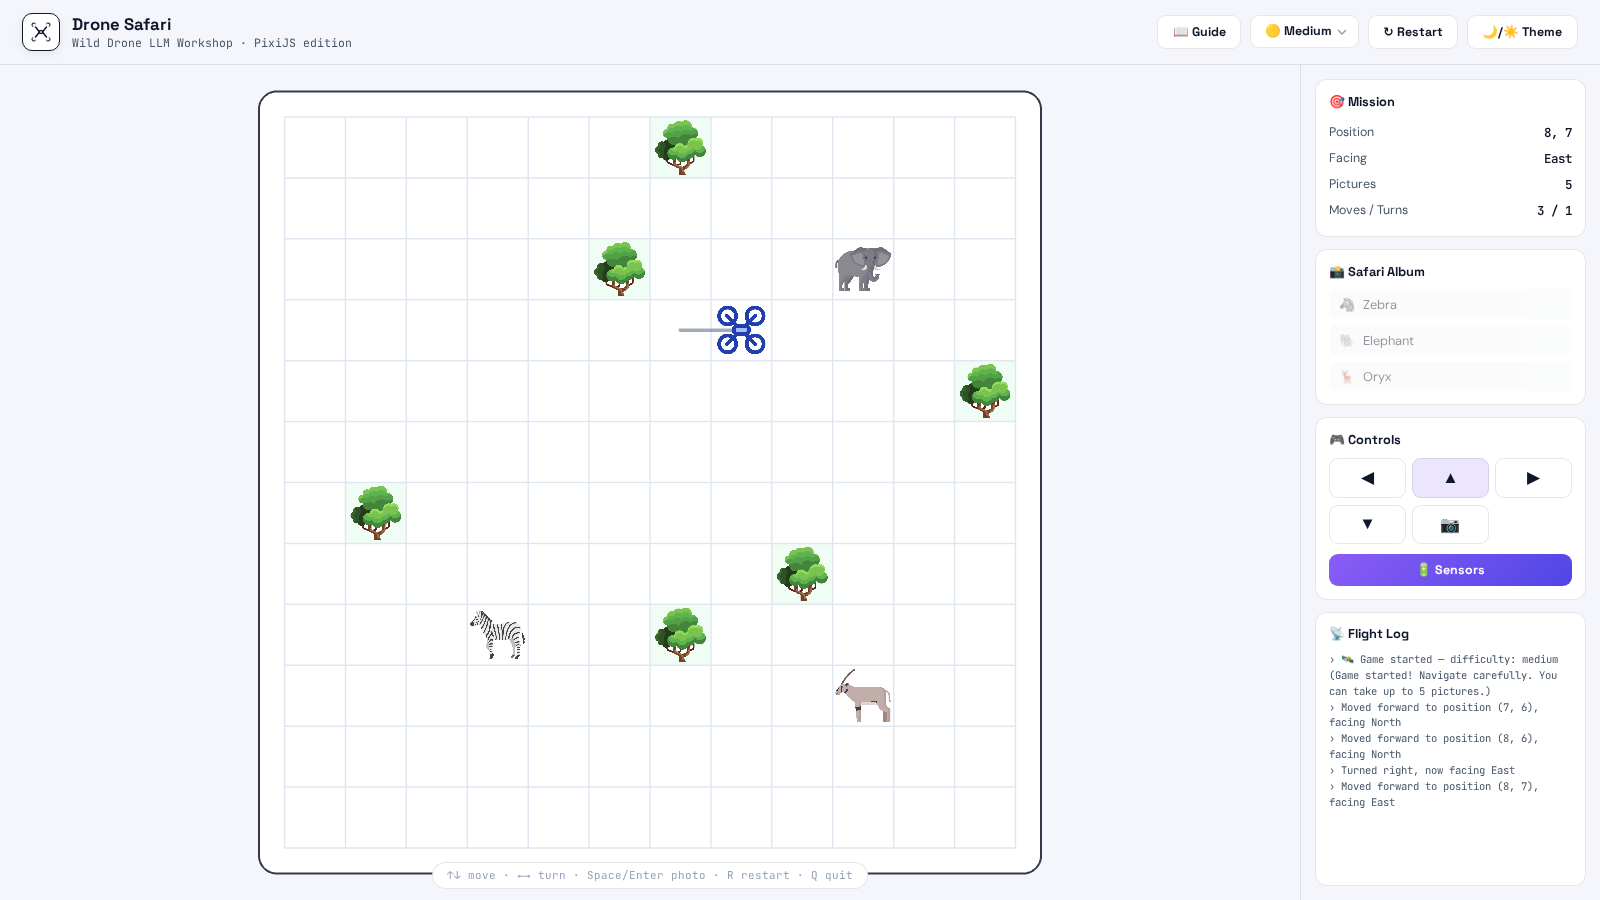
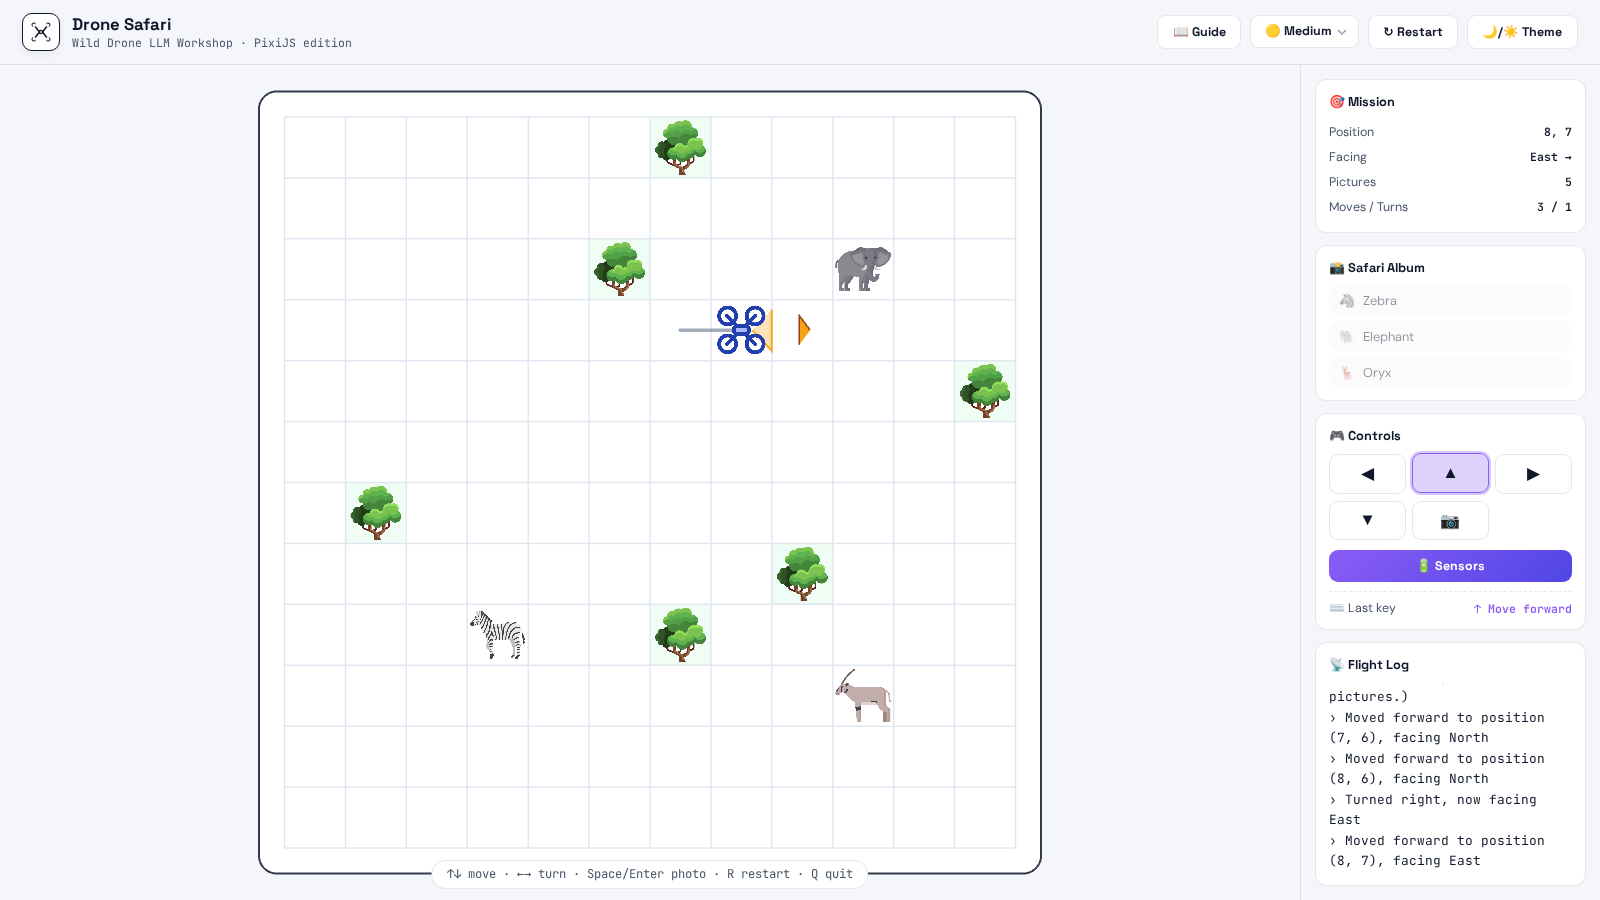
feat: last-key indicator + clear drone facing (web & Python) + corner notification toast
- Controls panel shows the last keyboard key pressed ('⌨ Last key: ↑ Move forward') and highlights the matching on-screen button
- Drone now has a bold amber FOV wedge + arrowhead showing its facing on the board; HUD Facing shows ↑→↓←
- Python visualize(): translucent gold wedge + bold dark-amber arrow overlay in the facing direction (both visualize() and the live widget)
- Game-over notification moved from board-center to a compact corner toast (board/explosion/scared icons fully visible) + outcome card in the sidebar Mission panel
- win banner reason: 'All 3 safari species photographed — the safari is complete!'

diff --git a/webgame/js/main.js b/webgame/js/main.js
@@ -206,6 +206,9 @@
       }
     }
 
+    // Facing indicator: translucent FOV wedge + bold arrowhead in front of the drone
+    if (!game.game_over) drawFacingIndicator();
+
     // Drone (rotated to its facing direction; North = up on screen)
     var drone = new PIXI.Sprite(
       game.game_over ? sprites.crashed : sprites.drone,
@@ -226,6 +229,52 @@
     updateHud();
     updateBanner();
   }
+
+  /** Bold facing indicator: amber wedge + arrowhead showing where the drone points. */
+  function drawFacingIndicator() {
+    var r = game.drone_pos[0];
+    var c = game.drone_pos[1];
+    var cx = (c + 0.5) * cellSize;
+    var cy = (S.GRID_SIZE - 1 - r + 0.5) * cellSize;
+    var d = DIRECTIONS_MAP[game.drone_facing];
+
+    // Wedge: triangle fan in front of the drone (about 1.1 cells forward)
+    var wedge = new PIXI.Graphics();
+    wedge
+      .moveTo(cx + d[0] * cellSize * 0.18, cy + d[1] * cellSize * 0.18)
+      .lineTo(
+        cx - d[1] * cellSize * 0.34 + d[0] * cellSize * 0.5,
+        cy + d[0] * cellSize * 0.34 + d[1] * cellSize * 0.5,
+      )
+      .lineTo(
+        cx + d[1] * cellSize * 0.34 + d[0] * cellSize * 0.5,
+        cy - d[0] * cellSize * 0.34 + d[1] * cellSize * 0.5,
+      )
+      .fill({ color: 0xf59e0b, alpha: 0.3 })
+      .stroke({ width: 2, color: 0xf59e0b, alpha: 0.9 });
+    board.addChild(wedge);
+
+    // Bold arrowhead at the tip of the wedge
+    var tipX = cx + d[0] * cellSize * 0.95;
+    var tipY = cy + d[1] * cellSize * 0.95;
+    var ax = -d[1];
+    var ay = d[0];
+    var head = new PIXI.Graphics();
+    head
+      .moveTo(tipX + d[0] * cellSize * 0.18, tipY + d[1] * cellSize * 0.18)
+      .lineTo(tipX - ax * cellSize * 0.24, tipY - ay * cellSize * 0.24)
+      .lineTo(tipX + ax * cellSize * 0.24, tipY + ay * cellSize * 0.24)
+      .fill({ color: 0xf59e0b, alpha: 0.95 })
+      .stroke({ width: 1.5, color: 0x92400e });
+    board.addChild(head);
+  }
+
+  var DIRECTIONS_MAP = {
+    North: [0, -1],
+    East: [1, 0],
+    South: [0, 1],
+    West: [-1, 0],
+  };
 
   var _lastTrailPos = null;
   function drawTrail(color) {
@@ -255,7 +304,9 @@
   function updateHud() {
     var st = game.get_status();
     document.getElementById("hud-pos").textContent = st.position.join(", ");
-    document.getElementById("hud-facing").textContent = st.facing;
+    var facingArrows = { North: "↑", East: "→", South: "↓", West: "←" };
+    document.getElementById("hud-facing").textContent =
+      st.facing + " " + (facingArrows[st.facing] || "");
     document.getElementById("hud-pics").textContent = st.pictures_remaining;
     document.getElementById("hud-moves").textContent =
       st.total_moves + " / " + st.total_turns;
@@ -264,6 +315,9 @@
         .getElementById("album-" + k)
         .classList.toggle("captured", st.animals_photographed[k]);
     });
+    if (!game.game_over) {
+      document.getElementById("hud-result").classList.add("hidden");
+    }
   }
 
   // ---------------------------------------------------------------- logging
@@ -311,20 +365,23 @@
     var banner = document.getElementById("game-banner");
     if (!game.game_over) {
       banner.classList.add("hidden");
+      document.getElementById("hud-result").classList.add("hidden");
       return;
     }
 
     var emoji = game.game_won ? "🏆" : "💥";
     var title = game.game_won ? "Mission Accomplished!" : "Mission Failed";
     var reason = game.failure_reason || "mission_incomplete";
-    var sub =
-      {
-        boundary_crash: "The drone flew out of the park boundaries.",
-        tree_crash: "The drone crashed into a tree.",
-        animal_crash: "The drone crashed into an animal.",
-        scared_animal: "Too close! An animal got scared and ran away.",
-        out_of_pictures: "Out of pictures — the safari mission is incomplete.",
-      }[reason] || "The mission ended.";
+    var sub = game.game_won
+      ? "All 3 safari species photographed — the safari is complete!"
+      : {
+          boundary_crash: "The drone flew out of the park boundaries.",
+          tree_crash: "The drone crashed into a tree.",
+          animal_crash: "The drone crashed into an animal.",
+          scared_animal: "Too close! An animal got scared and ran away.",
+          out_of_pictures:
+            "Out of pictures — the safari mission is incomplete.",
+        }[reason] || "The mission ended.";
 
     document.getElementById("game-banner-emoji").textContent = emoji;
     document.getElementById("game-banner-title").textContent = title;
@@ -333,16 +390,29 @@
     banner.classList.toggle("fail", !game.game_won);
     banner.classList.toggle("win", game.game_won);
 
-    // Position over the board (stage = canvas = board coordinate space)
-    var boardPx = cellSize * S.GRID_SIZE;
-    var bannerW = Math.min(560, boardPx * 0.92);
-    var stage = document.getElementById("pixi-stage");
-    var left = board.x + (boardPx - bannerW) / 2;
-    var top = board.y + cellSize * 0.6;
-    banner.style.left = left + "px";
-    banner.style.top = top + "px";
-    banner.style.width = bannerW + "px";
+    // Corner toast: pinned to the stage's top-left margin, never covers the board
+    banner.style.left = "14px";
+    banner.style.top = "14px";
+    banner.style.width = "auto";
+    banner.style.maxWidth = "420px";
     banner.classList.remove("hidden");
+
+    // Sidebar Mission panel shows the outcome too
+    var result = document.getElementById("hud-result");
+    result.innerHTML =
+      '<div class="hud-result-inner ' +
+      (game.game_won ? "win" : "fail") +
+      '">' +
+      "<b>" +
+      emoji +
+      " " +
+      title +
+      "</b>" +
+      "<span>" +
+      sub +
+      "</span>" +
+      "</div>";
+    result.classList.remove("hidden");
   }
 
   // ---------------------------------------------------------------- guide modal
@@ -366,6 +436,44 @@
   }
 
   // ---------------------------------------------------------------- input
+  var KEY_LABELS = {
+    ArrowUp: { label: "↑", action: "move-forward", text: "↑ Move forward" },
+    w: { label: "W", action: "move-forward", text: "W Move forward" },
+    W: { label: "W", action: "move-forward", text: "W Move forward" },
+    ArrowDown: { label: "↓", action: "move-backward", text: "↓ Move backward" },
+    s: { label: "S", action: "move-backward", text: "S Move backward" },
+    S: { label: "S", action: "move-backward", text: "S Move backward" },
+    ArrowLeft: { label: "←", action: "turn-left", text: "← Turn left" },
+    a: { label: "A", action: "turn-left", text: "A Turn left" },
+    A: { label: "A", action: "turn-left", text: "A Turn left" },
+    ArrowRight: { label: "→", action: "turn-right", text: "→ Turn right" },
+    d: { label: "D", action: "turn-right", text: "D Turn right" },
+    D: { label: "D", action: "turn-right", text: "D Turn right" },
+    " ": { label: "␣", action: "picture", text: "␣ Space — Take picture" },
+    Enter: { label: "↵", action: "picture", text: "↵ Enter — Take picture" },
+    r: { label: "R", action: "restart", text: "R Restart" },
+    R: { label: "R", action: "restart", text: "R Restart" },
+    q: { label: "Q", action: "quit", text: "Q Quit" },
+    Q: { label: "Q", action: "quit", text: "Q Quit" },
+  };
+
+  function markLastKey(e) {
+    var info = KEY_LABELS[e.key];
+    if (!info) return;
+    document.getElementById("last-key").textContent = info.text;
+    // Flash + mark the matching on-screen control button
+    document.querySelectorAll("[data-action]").forEach(function (btn) {
+      var active = btn.getAttribute("data-action") === info.action;
+      btn.classList.toggle("key-pressed", active);
+    });
+    if (info.action === "restart") {
+      document.getElementById("btn-restart").classList.add("key-pressed");
+      setTimeout(function () {
+        document.getElementById("btn-restart").classList.remove("key-pressed");
+      }, 500);
+    }
+  }
+
   function wireInput() {
     document.addEventListener("keydown", function (e) {
       if (e.repeat) return;
@@ -385,6 +493,7 @@
         if (confirm("Quit the safari game?")) window.close();
       } else return;
       e.preventDefault();
+      markLastKey(e);
     });
 
     document.querySelectorAll("[data-action]").forEach(function (btn) {

diff --git a/webgame/style.css b/webgame/style.css
@@ -364,11 +364,11 @@ main {
   z-index: 6;
   display: flex;
   align-items: center;
-  gap: 0.9rem;
+  gap: 0.7rem;
   background: var(--bg-card);
   border: 3px solid var(--border);
   border-radius: 14px;
-  padding: 1rem 1.3rem;
+  padding: 0.75rem 1.1rem;
   box-shadow: 0 14px 40px rgba(2, 6, 23, 0.35);
   pointer-events: none;
 }
@@ -376,20 +376,20 @@ main {
   display: none;
 }
 .game-banner-emoji {
-  font-size: 2.4rem;
+  font-size: 1.7rem;
   line-height: 1;
 }
 .game-banner-title {
   font-family: var(--font-heading);
-  font-size: 1.35rem;
+  font-size: 1.05rem;
   font-weight: 700;
   line-height: 1.15;
 }
 .game-banner-sub {
-  font-size: 0.95rem;
+  font-size: 0.82rem;
   font-weight: 500;
   color: var(--text);
-  margin-top: 0.15rem;
+  margin-top: 0.12rem;
 }
 .game-banner.fail {
   border-color: #b91c1c;
@@ -414,4 +414,68 @@ main {
 }
 [data-theme="dark"] .game-banner.win .game-banner-title {
   color: #34d399;
+}
+
+.last-key {
+  display: flex;
+  justify-content: space-between;
+  align-items: center;
+  font-size: 0.78rem;
+  color: var(--muted);
+  margin-top: 0.55rem;
+  padding-top: 0.55rem;
+  border-top: 1px dashed var(--border);
+}
+.last-key b {
+  font-family: var(--font-mono);
+  color: var(--primary);
+  font-size: 0.72rem;
+  text-align: right;
+}
+.ctrl.key-pressed {
+  border-color: var(--primary);
+  background: rgba(139, 92, 246, 0.28);
+  box-shadow: 0 0 0 2px rgba(139, 92, 246, 0.35);
+  transform: translateY(-1px);
+}
+.btn.key-pressed {
+  border-color: var(--primary);
+  box-shadow: 0 0 0 2px rgba(139, 92, 246, 0.35);
+}
+
+/* Sidebar Mission-panel result state */
+.hud-result {
+  margin-top: 0.55rem;
+  border-top: 1px dashed var(--border);
+  padding-top: 0.55rem;
+}
+.hud-result.hidden {
+  display: none;
+}
+.hud-result-inner {
+  display: flex;
+  flex-direction: column;
+  gap: 0.25rem;
+  padding: 0.55rem 0.65rem;
+  border-radius: 10px;
+  font-size: 0.78rem;
+  line-height: 1.45;
+}
+.hud-result-inner b {
+  font-family: var(--font-heading);
+  font-size: 0.85rem;
+}
+.hud-result-inner.win {
+  background: rgba(5, 150, 105, 0.14);
+  border: 1px solid rgba(5, 150, 105, 0.45);
+  color: var(--green);
+}
+.hud-result-inner.fail {
+  background: rgba(185, 28, 28, 0.12);
+  border: 1px solid rgba(185, 28, 28, 0.45);
+  color: var(--rose);
+}
+.hud-result-inner span {
+  color: var(--text);
+  font-weight: 500;
 }

diff --git a/webgame/index.html b/webgame/index.html
@@ -119,6 +119,7 @@
           <div class="hud-row">
             <span>Moves / Turns</span><b id="hud-moves">0 / 0</b>
           </div>
+          <div id="hud-result" class="hud-result hidden"></div>
         </section>
 
         <section class="panel">
@@ -145,6 +146,10 @@
               <button class="ctrl ctrl-shot" data-action="picture">📷</button>
             </div>
             <button class="btn btn-add" id="btn-sensors">🔋 Sensors</button>
+          </div>
+          <div class="last-key" id="last-key-row">
+            <span>⌨ Last key</span>
+            <b id="last-key">—</b>
           </div>
         </section>
 

diff --git a/drone_safari_game.py b/drone_safari_game.py
@@ -1343,19 +1343,33 @@ class InteractiveDroneSafariGame:
                 # Try to use drone icon, fallback to blue circle with arrow
                 if drone_icon is not None:
                     add_icon_to_plot(self.ax, drone_col, drone_row, drone_icon, zorder=10)
-                    # Add facing direction indicator (small arrow overlay)
+                    # Add facing direction indicator (bold wedge + arrow overlay)
                     dr, dc = DIRECTIONS[self.game.drone_facing]
+                    # Translucent FOV wedge in the facing direction
+                    wedge = patches.Polygon(
+                        [
+                            (drone_col - 0.28 + dc * 0.35, drone_row - 0.28 + dr * 0.35),
+                            (drone_col + 0.28 + dc * 0.35, drone_row + 0.28 + dr * 0.35),
+                            (drone_col + dc * 1.15, drone_row + dr * 1.15),
+                        ],
+                        closed=True,
+                        color="gold",
+                        alpha=0.35,
+                        zorder=9.5,
+                    )
+                    self.ax.add_patch(wedge)
+                    # Bold directional arrow
                     self.ax.arrow(
-                        drone_col,
-                        drone_row,
-                        dc * 0.7,
-                        dr * 0.7,
-                        head_width=0.12,
-                        head_length=0.1,
-                        fc="blue",
-                        ec="blue",
-                        zorder=11,
-                        linewidth=2,
+                        drone_col + dc * 0.05,
+                        drone_row + dr * 0.05,
+                        dc * 0.9,
+                        dr * 0.9,
+                        head_width=0.34,
+                        head_length=0.3,
+                        fc="#b45309",
+                        ec="#78350f",
+                        zorder=12,
+                        linewidth=2.5,
                     )
                 else:
                     # Fallback: Draw normal drone in blue
